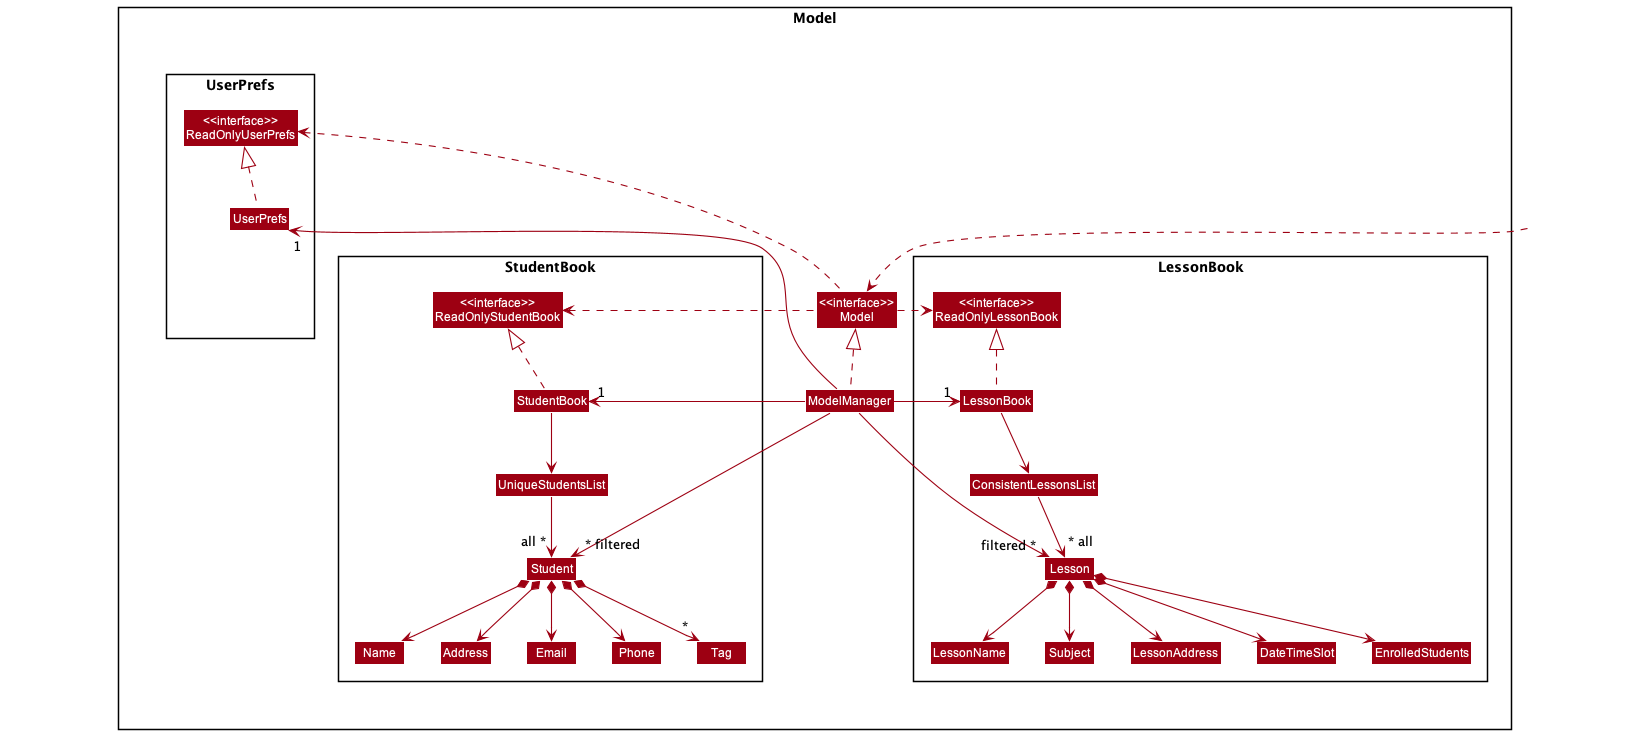
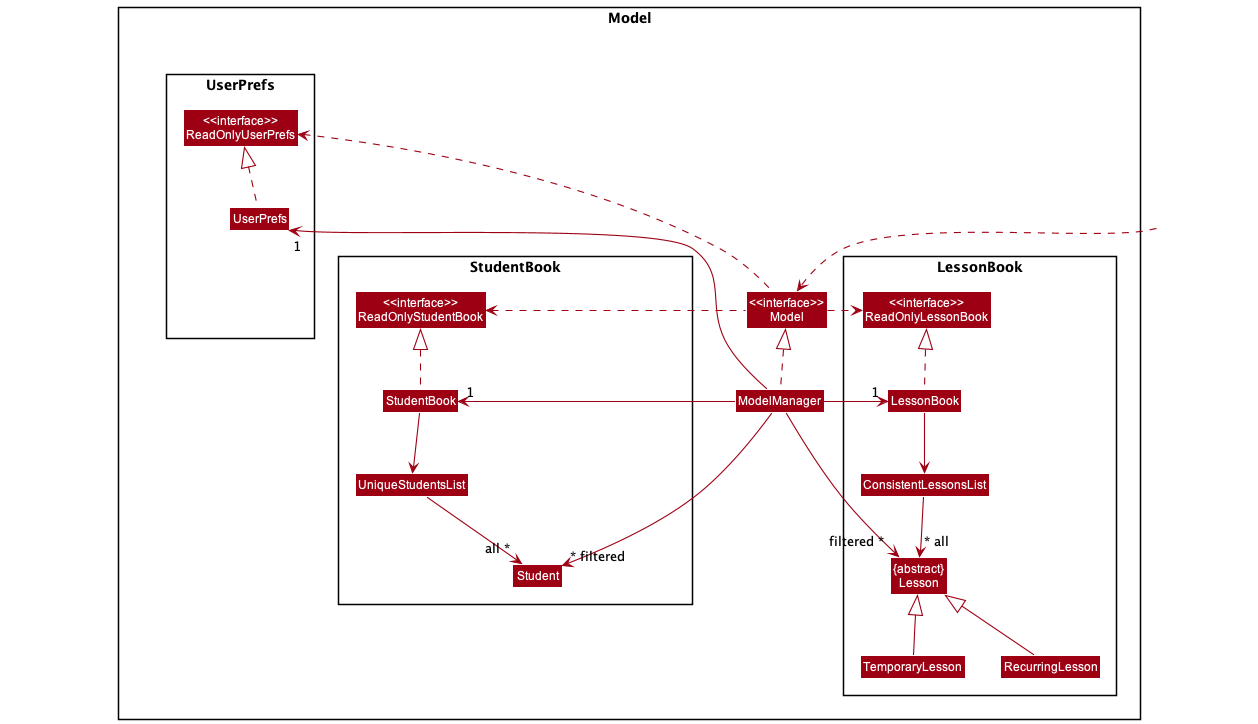
Add implementation section for Add temporary/recurring lesson

diff --git a/src/main/java/seedu/address/model/lesson/UniqueLessonList.java b/src/main/java/seedu/address/model/lesson/UniqueLessonList.java
@@ -61,7 +61,6 @@ public class UniqueLessonList implements Iterable<Lesson> {
     public void add(Lesson toAdd) {
         requireNonNull(toAdd);
         if (hasConflictingLesson(toAdd)) {
-
             throw new ConflictsWithLessonException(findLessonConflictingWith(toAdd), toAdd);
         }
         internalList.add(toAdd);

diff --git a/docs/DeveloperGuide.md b/docs/DeveloperGuide.md
@@ -41,15 +41,17 @@ TODO
 
 ![Model Class Diagram](images/ModelClassDiagram.png)
 
-The `Model` component,
+The `ModelManager` component,
 * stores the student book data i.e., all `Student` objects (which are contained in a `UniquePersonList` object).
 * stores the lesson book data i.e., all `Lesson` objects (which are contained in a `ConsistentLessonList` object).
-* stores a `UserPref` object that represents the user’s preferences. This is exposed to the outside as a `ReadOnlyUserPref` objects.
-* does not depend on any of the other three components (as the `Model` represents data entities of the domain, they should make sense on their own without depending on other components)
+* stores a `UserPref` object that represents the user’s preferences.
 
-the `Model` component also,
+the `ModelManager` component also,
 * stores the currently 'selected' `Student` objects (e.g., results of a search query) as a separate _filtered_ list which is exposed to outsiders as an unmodifiable `ObservableList<Student>` that can be 'observed' e.g. the UI can be bound to this list so that the UI automatically updates when the data in the list change.
-* stores the currently 'selected' `Lesson` objects (e.g., results of a search query) as a separate _filtered_ list which is exposed to outsiders as an unmodifiable `ObservableList<Lesson>` that can be 'observed' e.g. the UI can be bound to this list so that the UI automatically updates when the data in the list change.
+* similarly, it stores the currently 'selected' `Lesson` objects (e.g., results of a search query) as a separate _filtered_ list which is exposed to outsiders as an unmodifiable `ObservableList<Lesson>` that can be 'observed' e.g. the UI can be bound to this list so that the UI automatically updates when the data in the list change.
+
+![Model Class Diagram](images/LessonModelClassDiagram.png)
+Each `Lesson` has an association with a list of `EnrolledStudents`, which contains references to each `Student` assigned to the lesson.
 
 ### Storage component
 
@@ -65,7 +67,39 @@ TODO
 
 This section describes some noteworthy details on how certain features are implemented.
 
-TODO
+### Add temporary/recurring lesson
+Adding a lesson is enabled by the `ConsistentLessonList` class, which ensures that no lessons in record clash with one another.
+
+This is achieved by enforcing ***consistency*** between existing lessons stored in the application.
+
+A lesson list is considered ***consistent*** when no lessons in the list clash with one another. In particular, the following two conditions are enforced by the `ConsistentLessonList`:
+- no two temporary lessons should have overlapping timeslots (ie: a lesson should start when another lesson has not ended)
+- no recurring lesson should have overlapping timeslots with any temporary lesson or recurring lesson that falls on the same weekday as it
+
+This is done with the method `ConsistentLessonList#hasConflictingLesson()`, which takes in a `Lesson` that is to be added to the list and returns true if any existing lessons clashes with it.
+
+Given below is an example scenario:
+
+Step 1. The user requests to add a lesson that,
+- is on 20 March 2022
+- starts at 12 pm
+- lasts for 1 hour
+
+![Add Lesson Object Diagram](images/AddLessonObjectDiagram_1.png)
+
+Step 2. The method `ConsistentLessonList#add()` is called, with the new lesson passed in as the argument. The method `ConsistentLessonList#hasConflictingLesson()` is then called, which checks if the first existing lesson clashes with this one using the method `Lesson#isConflictingWithLesson()`.
+
+![Add Lesson Object Diagram](images/AddLessonObjectDiagram_2.png)
+
+Step 3. The method then moves down the list and checks if the second existing lesson clashes with this one using the method `Lesson#isConflictingWithLesson()`.
+
+![Add Lesson Object Diagram](images/AddLessonObjectDiagram_3.png)
+
+After all the existing lessons have been verified to not clash with the new lesson, it is added to the list of lessons.
+
+![Add Lesson Object Diagram](images/AddLessonObjectDiagram_4.png)
+
+
 
 --------------------------------------------------------------------------------------------------------------------
 
